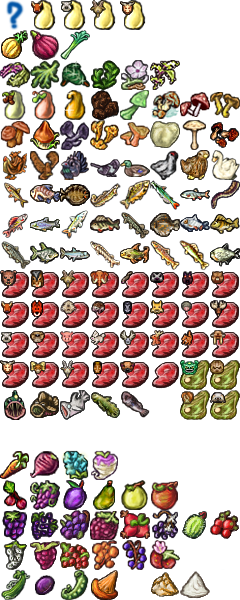
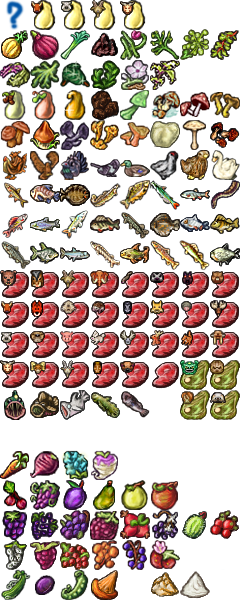
Spices added

Changed region(s): [[0.3792, 0.03, 0.7292, 0.12], [0.7292, 0.03, 0.9917, 0.12]]

diff --git a/tables.js b/tables.js
@@ -1,4 +1,13 @@
-var gl_nofx = ["Mix", "Spring Water", "Rendered Animal Fat"];
+var gl_nofx = ["Mix", "Spring Water", "Rendered Animal Fat", "No spice"];
+
+var gl_spice = [
+	"No spice",
+	"Black Pepper",
+	"Chives",
+	"Dill",
+	"Kvann",
+	"Laurel Leaves"
+];
 
 var gl_flour = [
 	"Barley Flour",
@@ -179,6 +188,13 @@ var gl_meat = [
 "Wood Grouse"
 ];
 
+var gl_meatweird = [
+"Boreworm",
+"Cave louse",
+"Chasm conch",
+"Troll"
+];
+
 var gl_carcass = [
 "Adder",
 "Bat",
@@ -268,37 +284,37 @@ var gl_vegetable = [
 
 
 var go_inglists = {
-	meat: gl_meat,
-	carcass: gl_carcass,
-	milk: gl_milk,
-	butter: gl_butter,
-	water: gl_water,
-	flour: gl_flour,
-	mushroom: gl_mushroom,
-	poultry: gl_poultry,
-	pork: gl_pork,
 	beef: gl_beef,
-	mutton: gl_mutton,
-	horse: gl_horse,
-	onion: gl_onion,
-	salad: gl_salad,
-	sweetener: gl_sweetener,
-	poultry: gl_poultry,
-	fish: gl_fish,
-	fat: gl_fat,
-	tuber: gl_tuber,
-	fruit: gl_fruit,
 	berry: gl_berry,
+	butter: gl_butter,
+	carcass: gl_carcass,
+	fat: gl_fat,
+	fish: gl_fish,
+	flour: gl_flour,
 	fob: gl_fob,
+	fruit: gl_fruit,
+	horse: gl_horse,
+	meat: gl_meat,
+	meatweird: gl_meatweird,
+	milk: gl_milk,
+	mushroom: gl_mushroom,
+	mutton: gl_mutton,
+	onion: gl_onion,
+	pork: gl_pork,
+	poultry: gl_poultry,
+	poultry: gl_poultry,
+	salad: gl_salad,
+	spice: gl_spice,
+	sweetener: gl_sweetener,
+	tuber: gl_tuber,
 	vegetable: gl_vegetable,
+	water: gl_water,
 };
 
 var gl_food = [
 	//CONSTA
-	["Kvann",	[],	{prc2: 1}, 250.0, 1.0],
 	["Quince", [], {wil1 :0.5,}, 80.0, 2.0], 
 	["Cave Slime", [], {psy2 :1.0, str2 :1.0, con2 :1.0,}, 200.0, 0.7], 
-	["Cavebulb", [], {psy1 :1.0,}, 175.0, 2.0], 
 	["Stalagoom", [], {wil2 :2.0, con2 :1.0,}, 200.0, 0.5], 
 	["Spitroast Wood Grouse", [], {dex1: 1.0, con2: 0.5, csm1: 0.5}, 250.0, 2.0], 
 	["Roast Wood Grouse", [], {dex1: 1.0, con2: 0.5}, 250.0, 4.0], 
@@ -416,7 +432,7 @@ var gl_food = [
 	["Harmesan Cheese", [], {con1: 10, csm2: 15, }, 100, 4],
 	["Hazelnut", [], {prc1: 0.15, }, 55, 2],
 	["Head of Lettuce", [], {con1: 1, psy1: 1, }, 400, 6],
-	["Hop Jellies", [], {str1: 1, wil2: 2, }, 500, 1],
+	// ["Hop Jellies", [], {str1: 1, wil2: 2, }, 500, 1],
 	["Jorbonzola", [], {int1: 35, int2: 15, psy1: 10, }, 100, 4],
 	["Kasseri", [], {str1: 4, csm1: 6, csm2: 2, }, 100, 4],
 	["King of the Woods", [], {str1: 4, int1: 4, wil1: 3, psy2: 2, }, 800, 7],
@@ -567,12 +583,19 @@ var gl_food = [
 	["Zamorano", [], {str2: 3, agi2: 3, psy2: 3, }, 100, 4],
 	
 	//VARIA
-	["Autumn Steak", ["mushroom", "meat", "salad", ], {con1: 4, prc1: 2, prc2: 1}, 800, 3],
+
+	//unpublished
+	["Sizzling Roast Pork", ["spice"], {"str2" : 3.75, "con2" : 3.75}, 250.0, 4.0], 
+	["Hop Jellies", ["spice"], {"str1": 1, "wil2": 2}, 500, 1],
+	["Cave Skewer",	["meatweird"],	{"psy2" : 2.0, "con1" : 3.0}, 800.0, 3.0],
+	//unpublished end
+
+	["Autumn Steak", ["mushroom", "meat", "salad", "spice"], {con1: 4, prc1: 2, prc2: 1}, 800, 3],
 	["Beeted Bird Breast", ["poultry", "fat", ], {con1: 4, csm1: 4, psy1: 4}, 750, 5],
 	["Big Bear Banger", ["pork", ], {str1: 6, str2: 4}, 900, 10],
 	["Birchbark Bream", ["onion", ], {int1: 4, csm1: 4, dex1: 3}, 400, 3],
 	["Boar Boudin", ["beef", ], {str1: 3, con1: 3}, 500, 6],
-	["Broiled Burbot", ["salad", ], {csm1: 3, wil2: 2}, 500, 2],
+	["Broiled Burbot", ["salad", "spice"], {csm1: 3, wil2: 2}, 500, 2],
 	["Butcher's Surprise", ["meat", ], {prc1: 1, csm1: 1, dex1: 1}, 600, 4],
 	["Butter Porridge", ["butter", ], {str2: 1, con1: 3}, 1000, 3],
 	["Butter-Chived Trout", ["butter", ], {str1: 2, int1: 3, prc1: 4}, 400, 2],
@@ -580,36 +603,36 @@ var gl_food = [
 	["Buttered Leeks", ["butter", ], {con1: 2, wil2: 3}, 500, 3],
 	["Candy Apple", ["sweetener", ], {int1: 2, csm2: 1}, 500, 1.5],
 	["Chicken Chorizo", ["mutton", ], {prc1: 5, dex1: 3, wil1: 1}, 400, 4.5],
-	["Chicken Salad", ["salad", ], {con1: 3, prc1: 3, dex1: 3}, 500, 5],
-	["Clambake", ["fish", ], {prc1: 4, csm1: 4, csm2: 2}, 500, 5],
-	["Crab Cakes", ["salad", "butter", "flour", "milk", ], {agi1: 2, agi2: 1, wil1: 2}, 500, 3],
+	["Chicken Salad", ["salad", "spice"], {con1: 3, prc1: 3, dex1: 3}, 500, 5],
+	["Clambake", ["fish", "spice"], {prc1: 4, csm1: 4, csm2: 2}, 500, 5],
+	["Crab Cakes", ["salad", "butter", "flour", "milk", "spice"], {agi1: 2, agi2: 1, wil1: 2}, 500, 3],
 	["Creamy Cock", ["milk", "fat", ], {agi1: 10, prc2: 5, dex1: 10, psy1: 5}, 1000, 6],
 	["Deep Fried Bird", ["poultry", "fat", "butter", "flour", "milk", ], {con2: 3, csm1: 3}, 500, 3],
 	["Dressed Lettuce", ["sweetener", ], {agi2: 1, prc2: 2, csm1: 4}, 500, 3.5],
 	["Encumbered Roast", ["meat", ], {str2: 3, prc1: 2, wil1: 2}, 500, 4],
 	["Escargots d'Amour", ["salad", ], {con2: 2, wil1: 2}, 500, 3],
-	["Fat-Braised Veg", ["tuber", ], {str1: 1, con2: 3, csm2: 2}, 500, 4],
+	["Fat-Braised Veg", ["tuber", "spice"], {str1: 1, con2: 3, csm2: 2}, 500, 4],
 	["Fish in Tears", ["fish", "fat", "onion", ], {agi1: 3, csm2: 3}, 500, 2.5],
-	["Fishballs", ["fish", "onion", "flour", ], {csm2: 3, wil1: 5}, 400, 4],
+	["Fishballs", ["fish", "onion", "flour", "spice"], {csm2: 3, wil1: 5}, 400, 4],
 	["Fishsticks", ["butter", "flour", "milk", "fish", ], {int1: 3, con1: 3}, 400, 3],
 	["Fox Fuet", ["pork", ], {str1: 2, agi1: 2}, 700, 6],
 	["Fruit Sorbet", ["fob", "sweetener", "water", ], {int2: 1, csm1: 2}, 500, 1],
 	["Glazed Grazer Dog", ["horse"], {str1: 3, csm1: 4, dex1: 3}, 600, 4],
 	["Haggis", ["onion", "flour", "mutton",], {con1: 5, csm2: 3}, 800, 3],
-	["Honey'd Bear", ["fat", ], {str2: 3, con1: 2, wil2: 3}, 500, 2.5],
+	["Honey'd Bear", ["fat", "spice"], {str2: 3, con1: 2, wil2: 3}, 500, 2.5],
 	["Hot Wings", ["butter", ], {str2: 1, csm2: 2, psy1: 2}, 500, 2],
-	["Jotun's Morsel", ["meat", "fat", ], {str1: 4, int2: 2, con1: 4, wil1: 4}, 1000, 8],
+	["Jotun's Morsel", ["meat", "fat", "spice"], {str1: 4, int2: 2, con1: 4, wil1: 4}, 1000, 8],
 	["Lamb Sausages", ["pork", ], {prc1: 7}, 600, 5.5],
-	["Leeky Fowl", ["poultry", "fat", ], {int1: 2, csm1: 2, csm2: 2}, 500, 4],
-	["Liver & Onions", ["onion", ], {int1: 1, dex1: 1, psy1: 2}, 500, 2],
+	["Leeky Fowl", ["poultry", "fat", "spice"], {int1: 2, csm1: 2, csm2: 2}, 500, 4],
+	["Liver & Onions", ["onion", "spice"], {int1: 1, dex1: 1, psy1: 2}, 500, 2],
 	["Lynxalami", ["pork", ], {agi2: 2, prc1: 3}, 500, 2],
 	["Marrow Roast", ["meat", ], {con1: 2, csm2: 3, wil1: 2}, 800, 4],
-	["Meat-in-Jelly", ["meat", ], {con1: 4, wil2: 2}, 500, 3],
+	["Meat-in-Jelly", ["meat", "spice"], {con1: 4, wil2: 2}, 500, 3],
 	["Molehill", ["onion", "salad", ], {prc1: 3, csm2: 3}, 500, 3],
 	["Moodog", ["beef", ], {str1: 3, agi1: 3, con2: 3}, 600, 4],
-	["Mushroom Mash", ["mushroom", "fat", ], {int1: 3, prc2: 1, wil1: 3}, 500, 3],
+	["Mushroom Mash", ["mushroom", "fat", "spice"], {int1: 3, prc2: 1, wil1: 3}, 500, 3],
 	["Mushrooms in Jelly", ["mushroom", ], {con1: 2, prc1: 2, csm2: 1}, 500, 3],
-	["Omelette", ["onion", ], {prc1: 1, dex2: 2}, 500, 3],
+	["Omelette", ["onion", "spice"], {prc1: 1, dex2: 2}, 500, 3],
 	["Onion Rings", ["onion", "butter", "flour", "milk", ], {con1: 3, dex1: 2, wil1: 1}, 800, 3],
 	["Onion Salad", ["tuber", "onion", ], {con1: 2, csm1: 2, wil2: 2}, 500, 2],
 	["Onion Skewer", ["meat", "onion", "fat", ], {str1: 2, con1: 2, wil2: 1}, 500, 2],
@@ -619,12 +642,12 @@ var gl_food = [
 	["Rabbit Food", ["salad", ], {prc1: 1, csm1: 1, wil1: 1}, 150, 3],
 	["Red-Shred Salad", ["salad", ], {int1: 1, con1: 2, csm1: 1}, 400, 3.5],
 	["Ring of Brodgar (Seafood)", ["fat", ], {agi1: 3, prc1: 2, psy1: 4}, 750, 3],
-	["Spicy Salad", ["tuber", "salad", "onion", ], {str2: 1, agi1: 1, csm1: 3}, 500, 3],
-	["Steak & Tubers", ["meat", "onion", "tuber", ], {str1: 2, con2: 2, csm1: 2}, 800, 4],
+	["Spicy Salad", ["tuber", "salad", "onion", "spice"], {str2: 1, agi1: 1, csm1: 3}, 500, 3],
+	["Steak & Tubers", ["meat", "onion", "tuber", "spice"], {str1: 2, con2: 2, csm1: 2}, 800, 4],
 	["Strawberries in Cream", ["milk", ], {int2: 2, csm1: 2, wil1: 2}, 500, 1],
 	["Swan Neck", ["salad", ], {prc2: 3, csm1: 5}, 600, 3],
 	["Sweet Beets", ["sweetener", ], {con1: 2, csm1: 2, wil1: 2}, 400, 2],
-	["Tuber Mash", ["tuber", "fat", ], {int1: 3, prc1: 2, csm1: 5}, 700, 3],
+	["Tuber Mash", ["tuber", "fat", "spice"], {int1: 3, prc1: 2, csm1: 5}, 700, 3],
 	["Turnip Fries", ["fat", ], {int1: 2, prc2: 2}, 500, 2.5],
 	["Two-Bird Skewer", ["poultry", "tuber", "sweetener", ], {agi1: 2, wil1: 3}, 800, 2.5],
 	["Zesty Brill", ["onion", ], {str1: 3, dex1: 3, wil1: 4}, 800, 2.5],
@@ -645,22 +668,22 @@ var gl_food = [
 	["Dream Cookies", ["water", "flour", ], {int2: 2, wil1: 4, }, 400, 2],
 	["Egg Cake", ["milk", "water", "flour", ], {agi1: 2, int1: 4, }, 600, 4.5],
 	["Fishpie", ["fish", "water", "flour", ], {int1: 5, prc1: 2, }, 700, 5],
-	["Fishwrap", ["berry", "fish", ], {int1: 1, prc1: 2, wil1: 1, }, 500, 2],
+	["Fishwrap", ["berry", "fish", "spice"], {int1: 1, prc1: 2, wil1: 1, }, 500, 2],
 	["Fruit Pie", ["water", "flour", "fob", "butter", ], {con1: 3, prc1: 3, prc2: 2, }, 500, 3.5],
 	["Fruitroast", ["fob", ], {int1: 2, con1: 1, wil1: 1, }, 500, 2],
 	["Greenleaf Pie", ["flour", "salad", "water", ], {int1: 2, con1: 2, wil1: 1, }, 500, 3],
 	["Grubpie", ["water", "flour", ], {str2: 1, prc2: 2, wil2: 2, }, 600, 3],
 	["Honeybun", ["water", ], {agi1: 4, }, 175, 2.5],
-	["Jelly Cake", ["water", "flour", "fat", ], {prc1: 3, csm2: 3, }, 500, 3],
+	["Jelly Cake", ["water", "flour", "fat", "spice"], {prc1: 3, csm2: 3, }, 500, 3],
 	["Laurel Crowned Roast", ["carcass", ], {agi1: 1, agi2: 1, con1: 2, psy1: 1, }, 750, 3],
 	["Lingon Loaf", ["water", "flour", ], {con1: 2, csm1: 2, csm2: 3, }, 500, 4],
 	["Linseed Loaf", ["water", "flour", ], {int1: 1, con1: 2, prc1: 3, }, 500, 4],
-	["Magpie", ["water", "flour", ], {int2: 2, con1: 2, wil1: 3, }, 750, 4],
+	["Magpie", ["water", "flour", "spice"], {int2: 2, con1: 2, wil1: 3, }, 750, 4],
 	["Marrow Cake", ["water", "flour", "sweetener", ], {str1: 3, dex2: 3, }, 500, 3],
-	["Meatpie", ["water", "flour", "meat", ], {str1: 5, con1: 4, }, 700, 5],
+	["Meatpie", ["water", "flour", "meat", "spice"], {str1: 5, con1: 4, }, 700, 5],
 	["Mushroom & Onion Pirozhki", ["water", "flour", "onion", "mushroom", ], {con1: 4, dex1: 4, }, 350, 5],
 	["Mushroom Pie", ["water", "flour", "mushroom", "fat", ], {int1: 3, csm2: 3, }, 750, 3],
-	["Mushroom-Burst Glutton", ["carcass", "mushroom", ], {con1: 2, prc1: 2, csm2: 1, }, 750, 3],
+	["Mushroom-Burst Glutton", ["carcass", "mushroom", "spice"], {con1: 2, prc1: 2, csm2: 1, }, 750, 3],
 	["Nutjerky", ["meat", ], {str1: 2, csm1: 1, wil1: 1, }, 500, 2],
 	["Pea Pie", ["water", "flour", ], {con1: 4, prc1: 1, csm1: 2, }, 500, 3.5],
 	["Pancake", ["butter", "flour", "milk", ], {csm1: 5, }, 500, 4],
@@ -674,13 +697,66 @@ var gl_food = [
 	["Sacrebleu", ["butter", "flour", "milk", "milk", ], {agi1: 3, int1: 4, csm2: 1, }, 750, 3],
 	["Seal Burger", ["water", "flour", "salad", ], {str1: 2, con2: 3, wil1: 4, }, 800, 4],
 	["Seedcrisp Flatbread", ["water", "flour", ], {str1: 1, con1: 1, wil2: 2, }, 500, 2],
-	["Shepherd's Pie", ["water", "flour", "onion", "tuber", "fat", ], {str2: 2, con1: 8, prc2: 3, }, 750, 3],
+	["Shepherd's Pie", ["water", "flour", "onion", "tuber", "fat", "spice"], {str2: 2, con1: 8, prc2: 3, }, 750, 3],
 	["Strawberry Cake", ["water", "flour", "butter", ], {prc1: 4, wil2: 4, }, 400, 2],
 	["Wellplaiced Pie", ["water", "flour", ], {int1: 4, prc1: 4, csm1: 2, }, 600, 4],
 ];
 
 
 var gl_fepmod = [
+
+	
+	/*unpublished start*/
+
+	["Meatpie", ["Black Pepper", "Pork", "Wheat Flour"], {"str1" : 2.4625, "con1" : 5.12, "str2" : 19.7, "agi1" : 14.775}], 
+	["Meatpie", ["Barley Flour", "Black Pepper", "Pork"], {"str1" : 2.4625, "con1" : 6.4, "str2" : 24.625}], 
+	["Meatpie", ["Pork", "Chives", "Wheat Flour"], {"str1" : 1.25, "con1" : 4.0, "str2" : 10.0, "agi1" : 7.5872}], 
+	["Meatpie", ["Barley Flour", "Pork", "Chives"], {"str1" : 1.25, "con1" : 5.0, "str2" : 12.5, "agi1" : 0.0921}], 
+	["Meatpie", ["Barley Flour", "Pork", "Kvann"], {"str1" : 5.0, "con1" : 1.25, "str2" : 12.5}], 
+	["Meatpie", ["Pork", "Wheat Flour", "Kvann"], {"str1" : 7.5, "con1" : 1.25, "str2" : 10.0, "agi1" : 4.0}], 
+	["Meatpie", ["Pork", "Wheat Flour", "Dill"], {"str1" : 1.35, "con1" : 4.0, "str2" : 10.0, "agi1" : 7.5}], 
+	["Meatpie", ["Barley Flour", "Pork", "Dill"], {"str1" : 1.25, "con1" : 5.0, "str2" : 13.5}], 
+	["Meatpie", ["Barley Flour", "Laurel Leaves", "Pork"], {"str1" : 19.625, "con1" : 1.4625}], 
+	["Meatpie", ["Laurel Leaves", "Pork", "Wheat Flour"], {"str1" : 1.25, "con1" : 4.68, "str2" : 10.0, "agi1" : 7.5}], 
+
+	["Sizzling Roast Pork", ["Chives"], {"str2" : 3.75, "con2" : 3.75, "agi1" : 0.3499}], 
+	["Sizzling Roast Pork", ["Laurel Leaves"], {"str2" : 5.1, "con2" : 3.75}], 
+	["Sizzling Roast Pork", ["Kvann"], {"str2" : 3.75, "con2" : 3.75}], 
+	["Sizzling Roast Pork", ["Black Pepper"], {"str2" : 6.225, "con2" : 4.875}], 
+	["Sizzling Roast Pork", ["Dill"], {"str2" : 3.75, "con2" : 4.7625}], 
+
+	["Hop Jellies", ["Kvann"], {"wil2" : 2.0, "str1" : 1.0}], 
+	["Hop Jellies", ["Chives"], {"wil2" : 2.0, "str1" : 1.0, "agi1" : 2.9109}], 
+	["Hop Jellies", ["Dill"], {"wil2" : 3.8, "str1" : 1.0}], 
+	["Hop Jellies", ["Black Pepper"], {"wil2" : 3.98, "str1" : 1.79}], 
+	["Hop Jellies", ["Laurel Leaves"], {"wil2" : 2.0, "str1" : 1.99}], 
+
+	["Sizzling Roast Pork", [], {"str2" : 3.75, "con2" : 3.75}], 
+	["Hop Jellies", [], {"str1": 1, "wil2": 2, }],
+
+	["Cave Skewer", ["Chasm conch"], {"psy2" : 0.5, "con1" : 3.0, "prc2" : 5.0}], 
+	["Cave Skewer", ["Boreworm"], {"psy2" : 1.2, "con1" : 3.0, "csm1" : 0.8}], 
+	["Cave Skewer", ["Cave louse"], {"psy2" : 1.2, "con1" : 3.0, "wil2" : 1.6}], 
+	["Cave Skewer", ["Troll"], {"psy2" : 2.0, "con1" : 3.0, "str2" : 5.0}], 
+
+	["Omelette", ["Red Onion", "Kvann"], {"dex2" : 2.0, "prc1" : 0.8, "int1" : 0.5}], 
+	["Omelette", ["Red Onion", "Dill"], {"dex2" : 2.0, "prc1" : 0.8, "int1" : 0.98}], 
+	["Omelette", ["Red Onion", "Chives"], {"dex2" : 2.0, "prc1" : 0.8, "int1" : 0.5, "agi1" : 4.0E-4}], 
+	["Omelette", ["Laurel Leaves", "Red Onion"], {"dex2" : 2.0, "prc1" : 0.84, "int1" : 0.525}], 
+	["Omelette", ["Black Pepper", "Red Onion"], {"dex2" : 2.32, "prc1" : 1.12, "int1" : 0.7}], 
+	["Omelette", ["Yellow Onion", "Kvann"], {"dex2" : 1.6, "prc1" : 1.0, "csm1" : 0.9}], 
+	["Omelette", ["Yellow Onion", "Chives"], {"dex2" : 1.6, "prc1" : 1.0, "csm1" : 0.9, "agi1" : 4.0E-4}], 
+	["Omelette", ["Laurel Leaves", "Yellow Onion"], {"dex2" : 1.6, "prc1" : 1.05, "csm1" : 0.9}], 
+	["Omelette", ["Black Pepper", "Yellow Onion"], {"dex2" : 1.856, "prc1" : 1.4, "csm1" : 1.044}], 
+	["Omelette", ["Leek", "Kvann"], {"dex2" : 1.6, "prc1" : 1.0, "con1" : 0.9}], 
+	["Omelette", ["Leek", "Chives"], {"dex2" : 1.6, "prc1" : 1.0, "con1" : 0.9, "agi1" : 4.0E-4}], 
+	["Omelette", ["Leek", "Dill"], {"dex2" : 1.6, "prc1" : 1.0, "con1" : 1.764}], 
+	["Omelette", ["Black Pepper", "Leek"], {"dex2" : 1.856, "prc1" : 1.4, "con1" : 1.044}], 
+	["Omelette", ["Yellow Onion", "Dill"], {"dex2" : 1.6, "prc1" : 1.0, "csm1" : 1.764}], 
+	["Omelette", ["Laurel Leaves", "Leek"], {"dex2" : 1.6, "prc1" : 1.05, "con1" : 0.9}], 
+
+	/*unpublished end */
+
 	["Butter Porridge", [], {str2: 1, con1: 3, }], 
 	["Butter-Chived Trout", [], {str1: 2, int1: 3, prc1: 4, }], 
 	["Butter-steamed Cavebulb", [], {psy1: 6, psy2: 4, }], 

diff --git a/gfx/ingredient.css b/gfx/ingredient.css
@@ -22,6 +22,12 @@
 .redonion 	{background-position: -30px -30px}
 .yellowonion{background-position: -0px -30px}
 
+.blackpepper		{background-position: -90px -30px}
+.chives				 	{background-position: -120px -30px}
+.dill						{background-position: -150px -30px}
+.kvann		 			{background-position: -180px -30px}
+.laurelleaves 	{background-position: -210px -30px}
+
 .beetrootleaves {background-position: -0px -60px}
 .greenkelp 			{background-position: -30px -60px}
 .heartwoodleaves{background-position: -60px -60px}

diff --git a/loadjs.js b/loadjs.js
@@ -22,4 +22,5 @@ function loadDataFromTables(targetArray) { //targetArray generation
       targetArray.push( [food[fi][0], food[fi][1], food[fi][2], sumFEP(food[fi][2]), food[fi][4], (sumFEP(food[fi][2]) / food[fi][4])] );
     }
   }
+  refreshView();
 }

diff --git a/rendertable.js b/rendertable.js
@@ -423,6 +423,7 @@ function turnPage() {
 }
 
 function refreshView() {
+  displayData.length = 0;
   displayData = prepareData(staticData);
   renderTable(displayData);
 }
